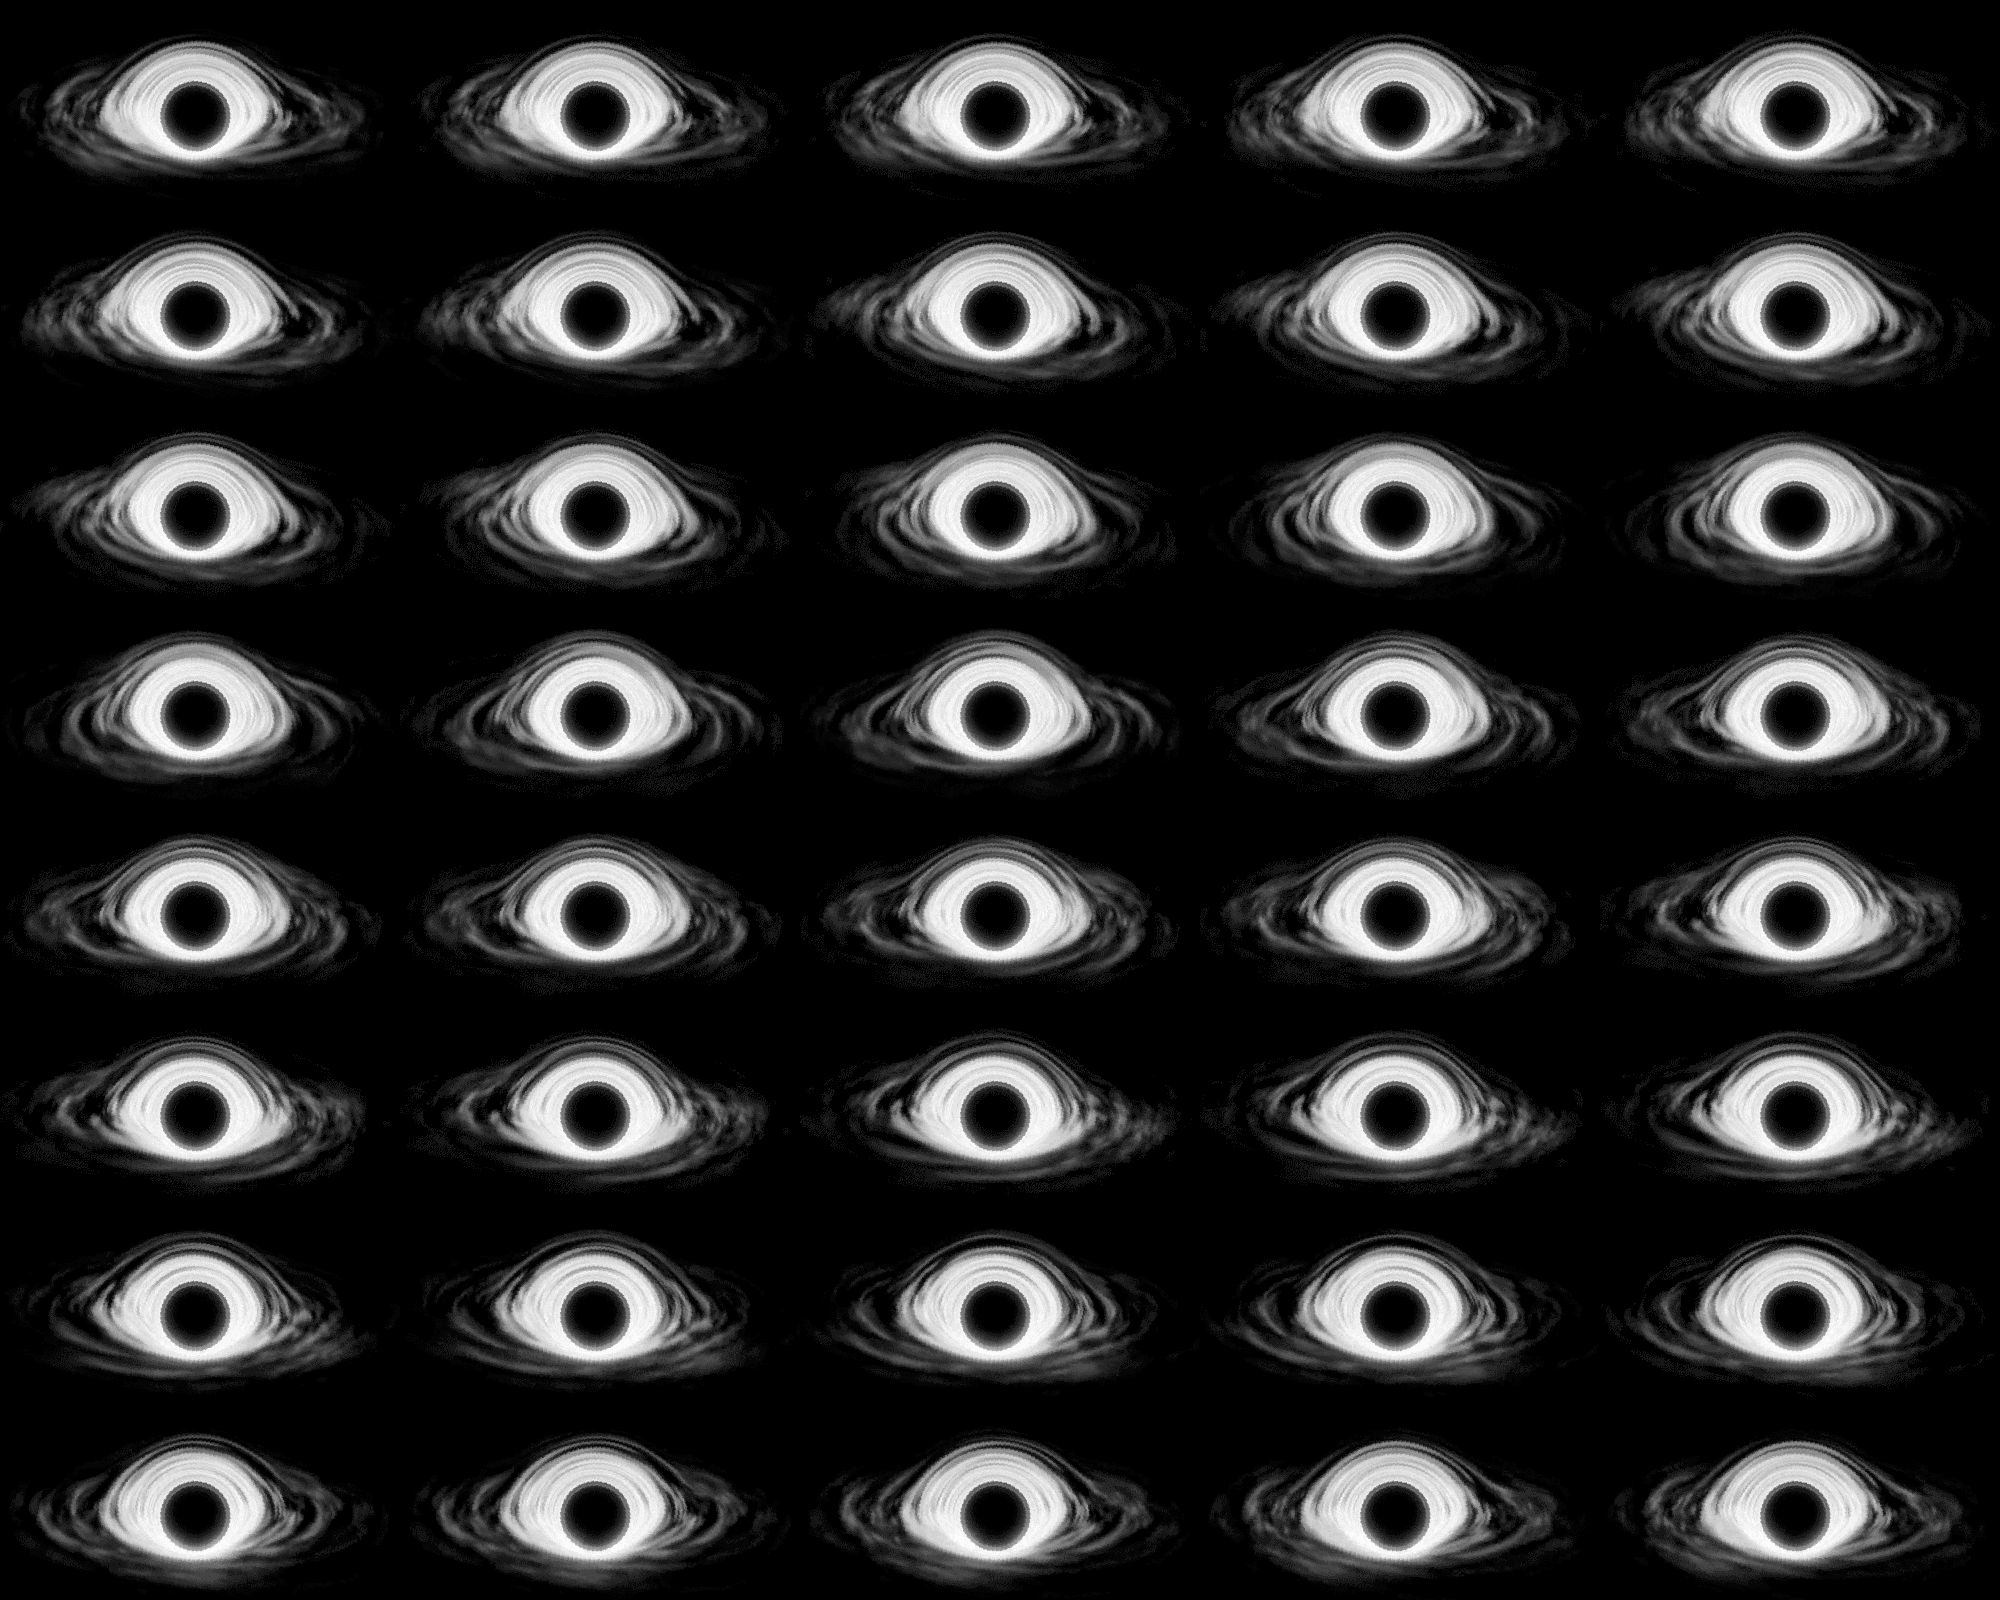
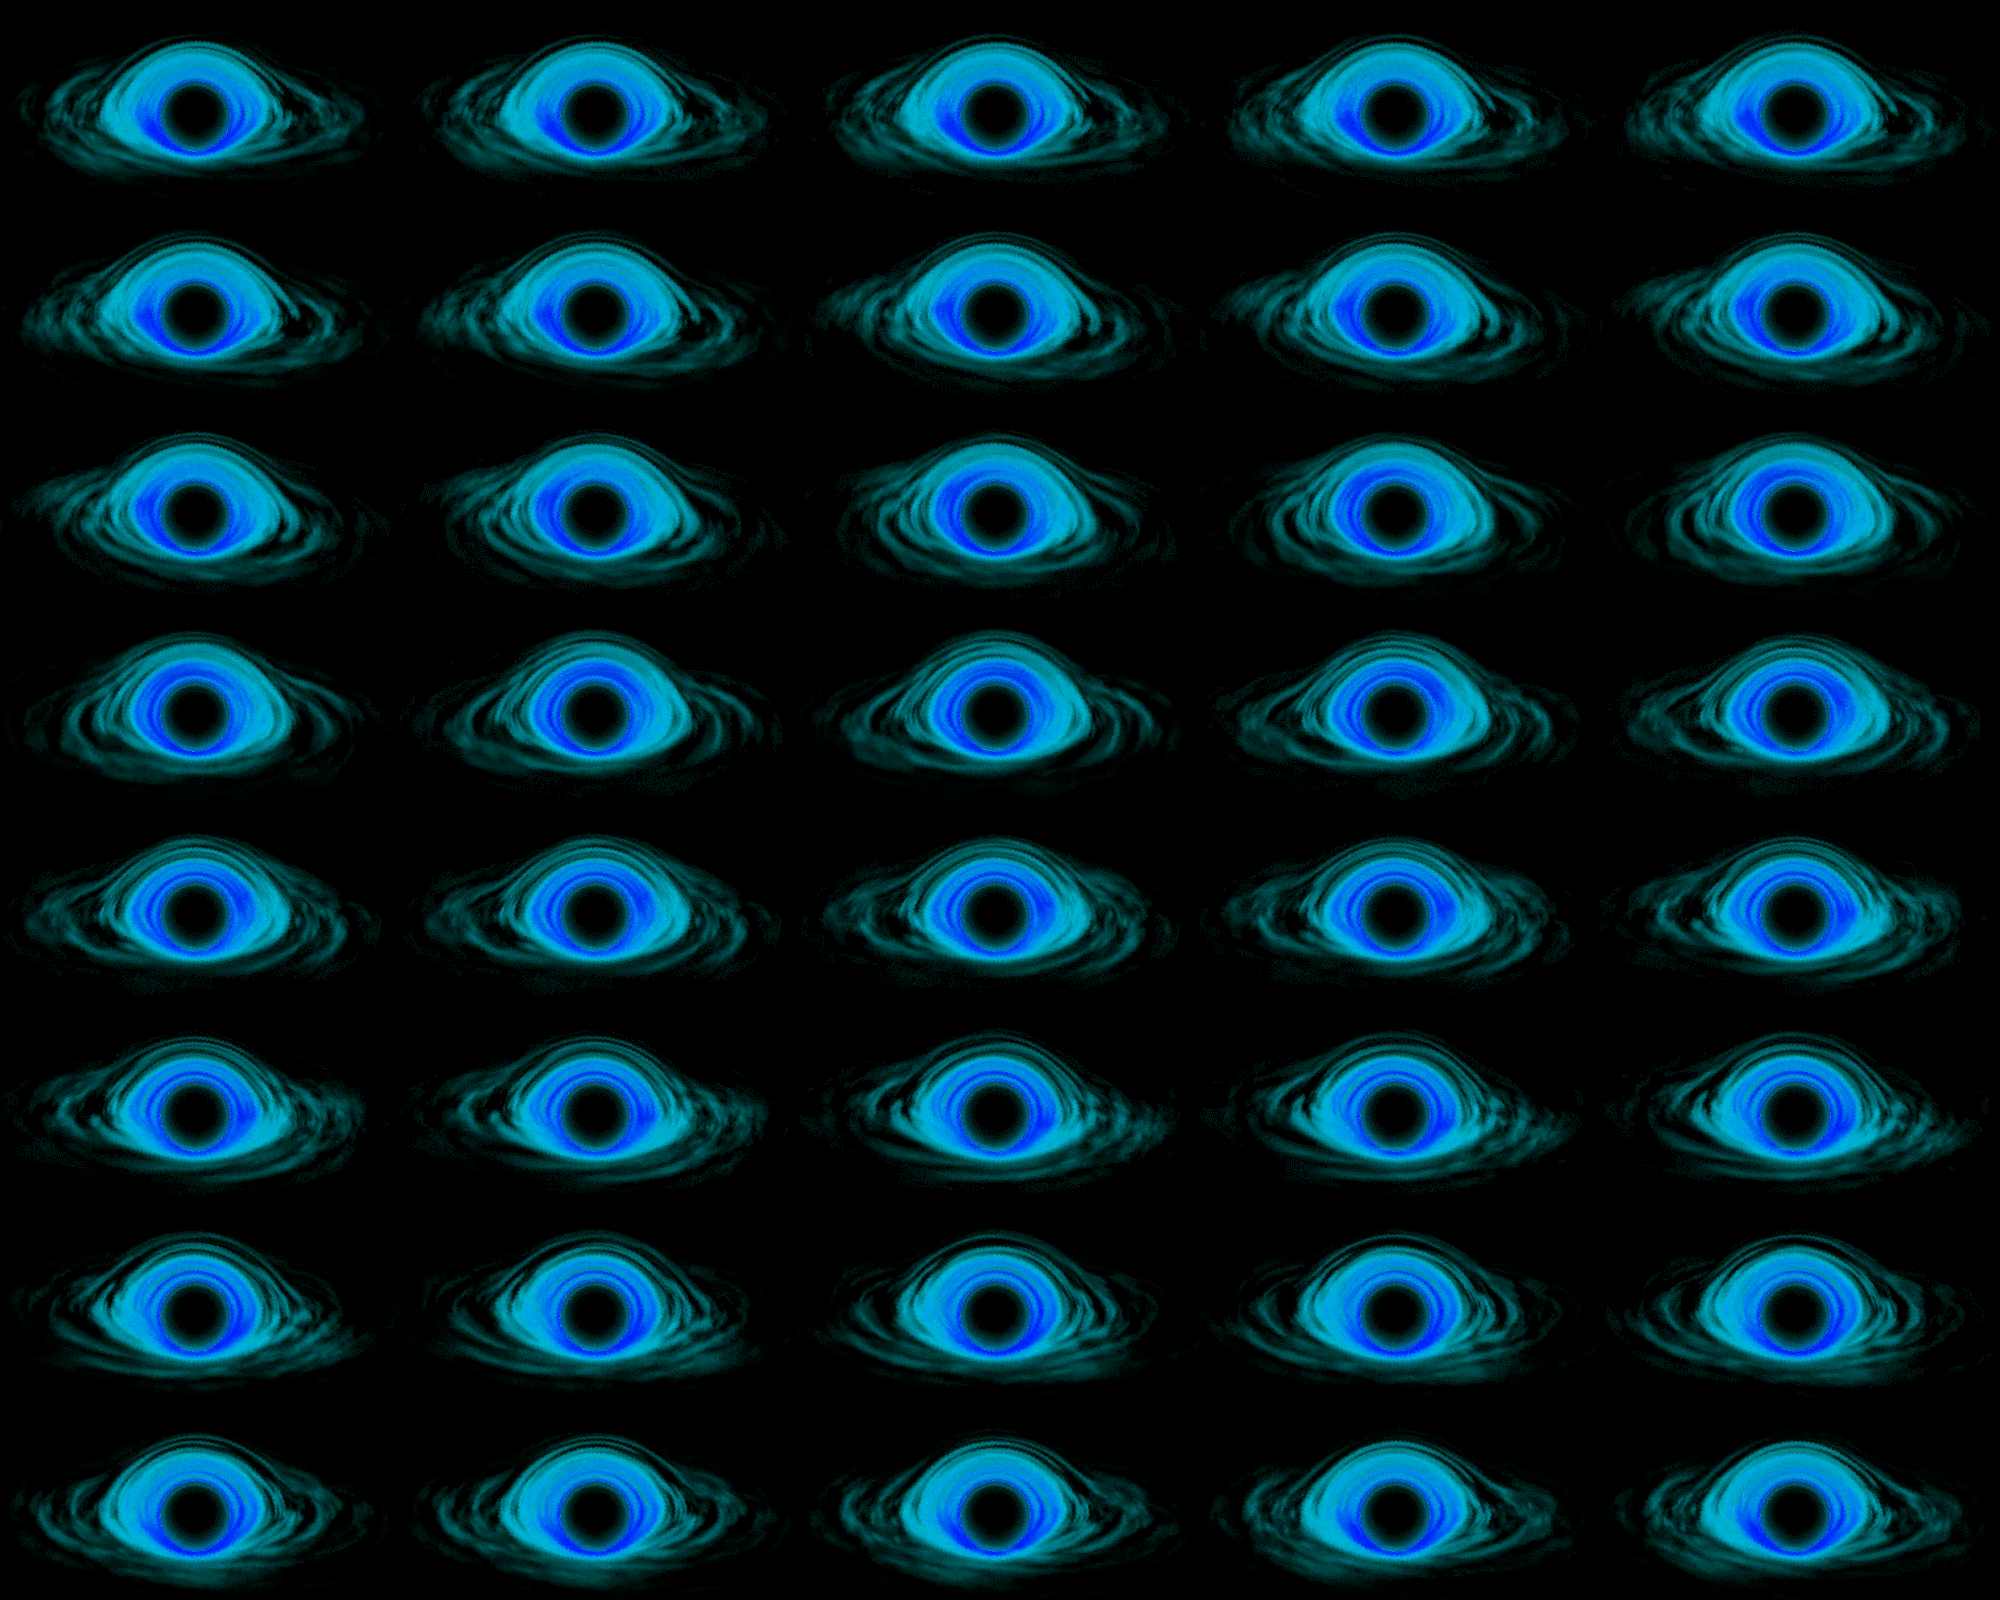
create dummy target and revert singularity

diff --git a/Content/Areas/Illuria/BossesIL/EStyr/BlackSeaRenderer.cs b/Content/Areas/Illuria/BossesIL/EStyr/BlackSeaRenderer.cs
@@ -289,7 +289,6 @@ namespace Stellamod.Content.Areas.Illuria.BossesIL.EStyr
             base.PreUpdateNPCs();
             drawBlackSea = false;
             renderBlackSea = false;
-            darkenedSingularity = false;
         }
 
         public override void PostUpdateNPCs()
@@ -325,7 +324,6 @@ namespace Stellamod.Content.Areas.Illuria.BossesIL.EStyr
         private float _spinTimer;
         private string _rootTexturePath;
 
-        public bool darkenedSingularity;
         public void DrawSingularity(Vector2 drawCenter, Vector2 screenPos)
         {
 
@@ -338,8 +336,6 @@ namespace Stellamod.Content.Areas.Illuria.BossesIL.EStyr
             SpriteBatch spriteBatch = Main.spriteBatch;
             ringDrawColor *= 0.05f;
             ringDrawColor.A = 0;
-            if (darkenedSingularity)
-                ringDrawColor *= 0.5f;
             spriteBatch.Draw(celestialRing, drawPosition, null, ringDrawColor, _singularityRotation, ringDrawOrigin, 4, SpriteEffects.None, 0);
 
             Texture2D texture = ModContent.Request<Texture2D>(_rootTexturePath).Value;
@@ -350,7 +346,7 @@ namespace Stellamod.Content.Areas.Illuria.BossesIL.EStyr
             float spinRotOffset = _spinTimer * -0.01f;
             SparkyShader sparkyShader = SparkyShader.Instance;
             sparkyShader.InnerColor = Color.White;
-            sparkyShader.OuterColor = Color.Gray;
+            sparkyShader.OuterColor = Main.DiscoColor;
             sparkyShader.Distortion = -0.15f;
             sparkyShader.Time = -Main.GlobalTimeWrappedHourly * 40;
             sparkyShader.Tiling = Vector2.One * 2;
@@ -364,8 +360,6 @@ namespace Stellamod.Content.Areas.Illuria.BossesIL.EStyr
             float scaleOsc2 = ExtraMath.Osc(0.4f, 0.5f, speed: 1);
 
             Color sparkyColor = Color.White * 0.75f;
-            if (darkenedSingularity)
-                sparkyColor *= 0.5f;
             spriteBatch.Draw(lightTexture, drawPosition, null, sparkyColor, sparkyRot, lightDrawOrigin, drawScale * 3 * scaleOsc2, SpriteEffects.None, 0);
             spriteBatch.Draw(lightTexture, drawPosition, null, sparkyColor * 0.25f, sparkyRot + 0.2f, lightDrawOrigin, drawScale * 8 * scaleOsc2, SpriteEffects.None, 0);
 
@@ -376,23 +370,21 @@ namespace Stellamod.Content.Areas.Illuria.BossesIL.EStyr
             spriteBatch.Restart(effect: shader.Effect);
 
             Color singularityColor = Color.White;
-            if (darkenedSingularity)
-                singularityColor *= 0.5f;
+
             spriteBatch.Draw(texture, drawPosition, null, singularityColor, _singularityRotation, drawOrigin, drawScale * 1.5f * scaleOsc2, SpriteEffects.None, 0);
             spriteBatch.RestartDefaults();
 
-            Texture2D diskTexture = ModContent.Request<Texture2D>("Stellamod/Assets/NoiseTextures/SFGrey").Value;
+            Texture2D diskTexture = ModContent.Request<Texture2D>("Stellamod/Assets/NoiseTextures/SF").Value;
             Vector2 diskDrawOrigin = diskTexture.Size() / 2f;
-            Color diskDrawColor = Color.Lerp(Color.White, Color.Gray, ExtraMath.Osc(0f, 1f, speed: 2));
-            if (darkenedSingularity)
-                diskDrawColor *= 0.5f;
+
+            Color diskDrawColor = Color.Lerp(Color.White, Color.Lerp(Color.White, Color.Cyan, 0.15f), ExtraMath.Osc(0f, 1f, speed: 2));
             diskDrawColor.A = 0;
 
             float scaleOsc = ExtraMath.Osc(0.5f, 0.58f, speed: 1);
             spriteBatch.Draw(diskTexture, drawPosition, null, diskDrawColor, _singularityRotation, diskDrawOrigin, drawScale * 0.8f * scaleOsc, SpriteEffects.None, 0);
             spriteBatch.Draw(diskTexture, drawPosition, null, diskDrawColor, _singularityRotation, diskDrawOrigin, drawScale * 0.7f * scaleOsc, SpriteEffects.None, 0);
 
-            diskTexture = ModContent.Request<Texture2D>("Stellamod/Assets/NoiseTextures/SF2Grey").Value;
+            diskTexture = ModContent.Request<Texture2D>("Stellamod/Assets/NoiseTextures/SF2").Value;
 
             spriteBatch.Draw(diskTexture, drawPosition, null, diskDrawColor * 0.25f, _singularityRotation, diskDrawOrigin, drawScale * 0.7f * scaleOsc * new Vector2(3.5f, 0.2f), SpriteEffects.None, 0);
             spriteBatch.Draw(diskTexture, drawPosition, null, diskDrawColor * 0.5f, _singularityRotation, diskDrawOrigin, drawScale * 0.7f * scaleOsc * new Vector2(7.5f, 0.2f), SpriteEffects.None, 0);
@@ -400,10 +392,9 @@ namespace Stellamod.Content.Areas.Illuria.BossesIL.EStyr
 
             Texture2D extra67 = ModContent.Request<Texture2D>("Stellamod/Assets/NoiseTextures/Extra_67").Value;
             Vector2 extra67DrawOrigin = extra67.Size() / 2f;
-            Color extra67DrawColor = Color.Lerp(Color.White, Color.Gray, ExtraMath.Osc(0f, 1f, speed: 2));
+            Color extra67DrawColor = Color.Lerp(Color.White, Color.Cyan, ExtraMath.Osc(0f, 1f, speed: 2));
             extra67DrawColor.A = 0;
-            if (darkenedSingularity)
-                extra67DrawColor *= 0.5f;
+
             spriteBatch.Draw(extra67, drawPosition, null, extra67DrawColor * 0.2f, _singularityRotation, extra67DrawOrigin, drawScale * 0.8f * scaleOsc, SpriteEffects.None, 0);
             DrawIncresionDiskBottom(spriteBatch, drawCenter, screenPos, Color.White);
             DrawIncresionDiskTop(spriteBatch, drawCenter, screenPos, Color.White);
@@ -417,8 +408,7 @@ namespace Stellamod.Content.Areas.Illuria.BossesIL.EStyr
             //Incresion Disk Draw Color
             Color incresionDiskDrawColor = Color.White;
             incresionDiskDrawColor *= 0.15f;
-            if (darkenedSingularity)
-                incresionDiskDrawColor *= 0.5f;
+
             incresionDiskDrawColor.A = 0;
 
             Vector2 drawPos = drawCenter - screenPos;
@@ -426,18 +416,16 @@ namespace Stellamod.Content.Areas.Illuria.BossesIL.EStyr
             float drawScale = 1.75f;
             spriteBatch.Draw(supernovaTopTexture, drawPos, incresionDiskRect, incresionDiskDrawColor, _singularityRotation, drawOrigin, drawScale, SpriteEffects.None, 0);
 
-            incresionDiskDrawColor = Color.Gray;
+            incresionDiskDrawColor = Color.Cyan;
             incresionDiskDrawColor *= 0.25f;
-            if (darkenedSingularity)
-                incresionDiskDrawColor *= 0.5f;
+
             incresionDiskDrawColor.A = 0;
 
             spriteBatch.Draw(supernovaTopTexture, drawPos, incresionDiskRect, incresionDiskDrawColor, _singularityRotation, drawOrigin, drawScale * 1.5f, SpriteEffects.None, 0);
 
-            incresionDiskDrawColor = Color.DarkGray;
+            incresionDiskDrawColor = Color.Purple;
             incresionDiskDrawColor *= 0.25f;
-            if (darkenedSingularity)
-                incresionDiskDrawColor *= 0.5f;
+
             incresionDiskDrawColor.A = 0;
 
             spriteBatch.Draw(supernovaTopTexture, drawPos, incresionDiskRect, incresionDiskDrawColor, _singularityRotation, drawOrigin, drawScale * 2, SpriteEffects.None, 0);
@@ -454,8 +442,7 @@ namespace Stellamod.Content.Areas.Illuria.BossesIL.EStyr
             Color incresionDiskDrawColor = Color.White;
             incresionDiskDrawColor *= 0.15f;
             incresionDiskDrawColor.A = 0;
-            if (darkenedSingularity)
-                incresionDiskDrawColor *= 0.5f;
+ 
             Vector2 drawPos = drawCenter - screenPos;
             Vector2 drawOrigin = incresionDiskRect.Size() / 2;
 

diff --git a/Core/Utilities/ManagedRenderTargetManager.cs b/Core/Utilities/ManagedRenderTargetManager.cs
@@ -17,11 +17,13 @@ namespace Stellamod.Core.Utilities
         private readonly int _downSamples;
         private readonly ResizeFunction _resizeFunction;
         private RenderTarget2D _renderTarget;
+        private static RenderTarget2D _dummyRenderTarget;
         private bool _mipMap;
         private SurfaceFormat _surfaceFormat;
         private DepthFormat _depthFormat;
         private ManagedRenderTarget(ResizeFunction resizeFunction, int downSamples = 1, bool mipMap = true, SurfaceFormat surfaceFormat = SurfaceFormat.Color, DepthFormat depthFormat = DepthFormat.None)
         {
+ 
             _resizeFunction = resizeFunction;
             _mipMap = mipMap;
             _surfaceFormat = surfaceFormat;
@@ -33,6 +35,7 @@ namespace Stellamod.Core.Utilities
             Height = 1;
         }
 
+        public static RenderTarget2D DummyTarget;
         public delegate Point ResizeFunction();
 
         public int Width { get; private set; }
@@ -43,6 +46,7 @@ namespace Stellamod.Core.Utilities
             Point newSize = new Point(screenSize.X / _downSamples, screenSize.Y / _downSamples);
             _renderTarget.Release();
             _renderTarget = new RenderTarget2D(Main.graphics.GraphicsDevice, newSize.X, newSize.Y, mipMap: _mipMap, _surfaceFormat, _depthFormat);
+
             Width = newSize.X;
             Height = newSize.Y;
         }
@@ -63,6 +67,11 @@ namespace Stellamod.Core.Utilities
             return new Point(Main.screenTarget.Width, Main.screenTarget.Height);
         }
 
+        public static void InitializeDummyTarget()
+        {
+            DummyTarget = new RenderTarget2D(Main.instance.GraphicsDevice, 1, 1);
+        }
+
         public static ManagedRenderTarget New(ResizeFunction resizeFunction, int downSamples = 1, bool mipMap = true, SurfaceFormat surfaceFormat = SurfaceFormat.Color, DepthFormat depthFormat = DepthFormat.None)
         {
             GraphicsDevice graphicsDevice = Main.graphics.GraphicsDevice;
@@ -73,8 +82,6 @@ namespace Stellamod.Core.Utilities
             return managedRenderTarget;
         }
 
-
-
         public static implicit operator RenderTarget2D(ManagedRenderTarget managedRenderTarget)
         {
             //This looks weird, it's just so something gets output while the render target is loading
@@ -82,7 +89,7 @@ namespace Stellamod.Core.Utilities
             //But that's such a non issue
             if (managedRenderTarget._renderTarget == null ||managedRenderTarget._renderTarget.IsDisposed)
             {
-                return Main.screenTargetSwap;
+                return DummyTarget;
             }
 
             return managedRenderTarget._renderTarget;
@@ -96,6 +103,11 @@ namespace Stellamod.Core.Utilities
     {
         private Point _oldScreenSize;
         private List<ManagedRenderTarget> _managedRenderTargets;
+        public override void Load()
+        {
+            base.Load();
+            Main.QueueMainThreadAction(ManagedRenderTarget.InitializeDummyTarget);
+        }
         public override void Unload()
         {
             base.Unload();
@@ -104,6 +116,12 @@ namespace Stellamod.Core.Utilities
             _managedRenderTargets.Clear();
         }
 
+
+        public override void OnModLoad()
+        {
+            base.OnModLoad();
+      
+        }
 
         public override void PostUpdateEverything()
         {

diff --git a/Core/MoonWaters/MoonWaterSystem.cs b/Core/MoonWaters/MoonWaterSystem.cs
@@ -316,13 +316,6 @@ namespace Stellamod.Core.MoonWaters
         private void CopyScreenTarget(On_Main.orig_DoDraw orig, Main self, GameTime gameTime)
         {
             orig(self, gameTime);
-
-            /*
-            if (Main.mouseMiddle)
-                DrawLightMapToScreen();
-            if (Main.mouseRight)
-                DrawWaterTargetToScreen();
-            */
         }
 
         private void ApplyWaterShader(On_OverlayManager.orig_Draw orig, OverlayManager self, SpriteBatch spriteBatch, RenderLayers layer, bool beginSpriteBatch)
@@ -408,14 +401,12 @@ namespace Stellamod.Core.MoonWaters
             var config = ModContent.GetInstance<LunarVeilClientConfig>();
             if (!config.LiquidsToggle)
                 return;
+            if (Main.gameMenu)
+                return;
 
-            if (!Main.gameMenu)
-            {
-              
-                CalculateHeightsToDraw();
-                RenderIntoHeightMapTarget();
-                RenderIntoWaterTextureTarget();
-            }
+            CalculateHeightsToDraw();
+            RenderIntoHeightMapTarget();
+            RenderIntoWaterTextureTarget();
         }
 
 

diff --git a/Content/Areas/Illuria/BossesIL/EStyr/E.cs b/Content/Areas/Illuria/BossesIL/EStyr/E.cs
@@ -299,7 +299,7 @@ namespace Stellamod.Content.Areas.Illuria.BossesIL.EStyr
 
                 BlackSeaRenderer blackseaRenderer = ModContent.GetInstance<BlackSeaRenderer>();
                 blackseaRenderer.drawBlackSea = true;
-                blackseaRenderer.darkenedSingularity = _drawDarkened;
+                //blackseaRenderer.darkenedSingularity = _drawDarkened;
             }
             else
             {
